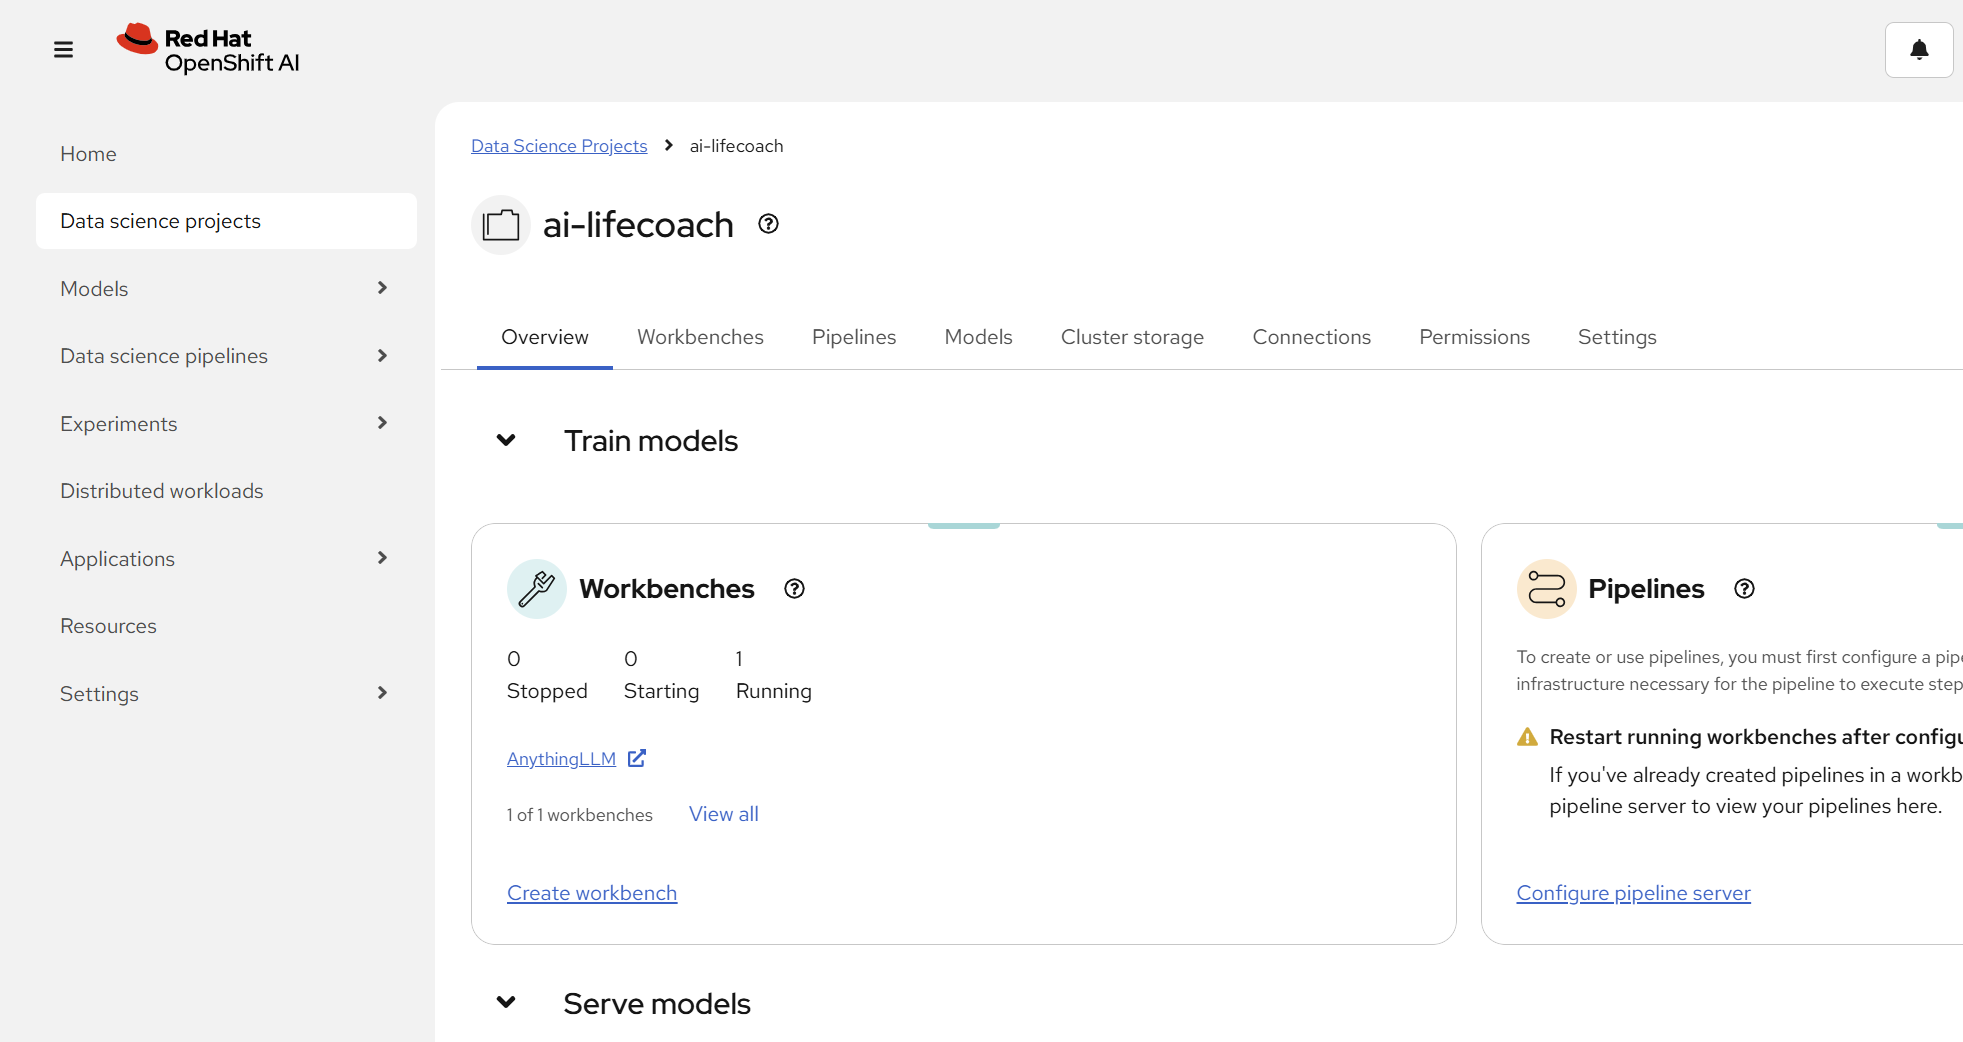
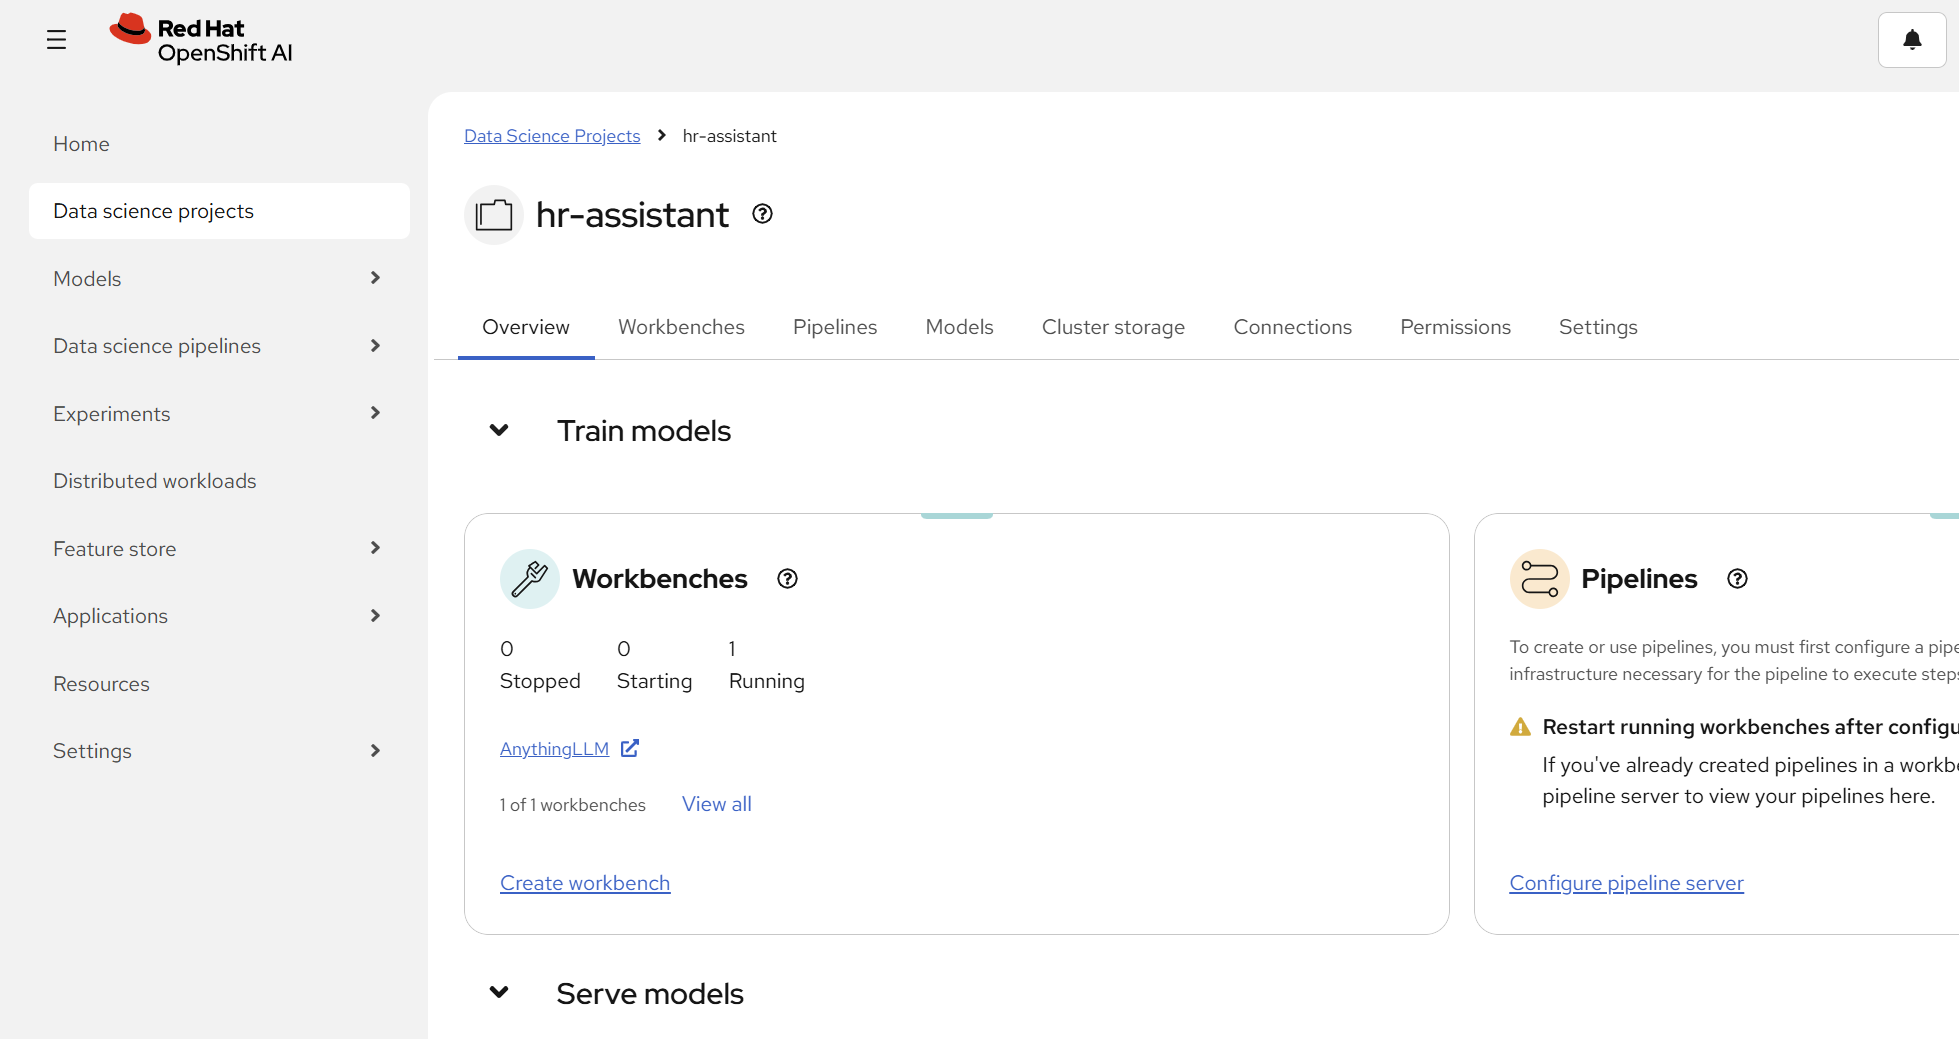
From AI lifecoach to hr assistant

diff --git a/README.md b/README.md
@@ -1,17 +1,17 @@
-# AI Leadership & Strategy Lifecoach
+# Assistant to the HR Representative
 
-Deploy a lightweight AI leadership chat assistant using a large language model on CPU-based infrastructure.
+Deploy a lightweight chat assistant using a large language model on CPU-based infrastructure.
 
 ## Detailed description 
 
-The *AI Leadership & Strategy Lifecoach* is a lightweight quickstart designed to
-give AI leaders a trusted sounding board for key decisions. Chat with this
-lifecoach for quick, strategic insights and actionable advice. 
+The *Assistant to the HR Representative* is a lightweight quickstart designed to
+give HR Representatives a trusted sounding board for discussions and decisions. 
+Chat with this assistant for quick insights and actionable advice. 
 
 This quickstart was designed for environments where GPUs are not available or
 necessary, making it ideal for lightweight inference use cases, prototyping, or
 constrained environments. By making the most of vLLM on CPU-based
-infrastructure, this AI lifecoach can be deployed to almost any OpenShift AI
+infrastructure, this Assistant to the HR Representative can be deployed to almost any OpenShift AI
 environment. 
 
 This quickstart includes a Helm chart for deploying:
@@ -91,7 +91,7 @@ storageClassName: gp3-csi
 ### Create the project
 
 ```bash
-PROJECT="ai-lifecoach"
+PROJECT="hr-assistant"
 
 oc new-project ${PROJECT}
 ``` 
@@ -131,10 +131,10 @@ Inside the project you can see Workbenches, open up the one for AnythingLLM.
 
 ![OpenShift AI Projects](docs/images/rhoai-2.png)
 
-Finally, click on the **AI Director Lifecoach** Workspace that's pre-created for you and you can start chatting with your AI Leadership & Strategy Lifecoach! :)  
+Finally, click on the **Assistant to the HR Representative** Workspace that's pre-created for you and you can start chatting with your Assistant to the HR Representative! :)  
 Try for example asking it:
 ```
-Hi, I'm trying to keep up with all the AI changes while also balancing my life but getting overwhelmed, how can I deal with this?
+Hi, one of our employees is going to get a raise, what do I need to keep in mind for this?
 ```
 It will provide you a reply and some citations related to the question.
 
